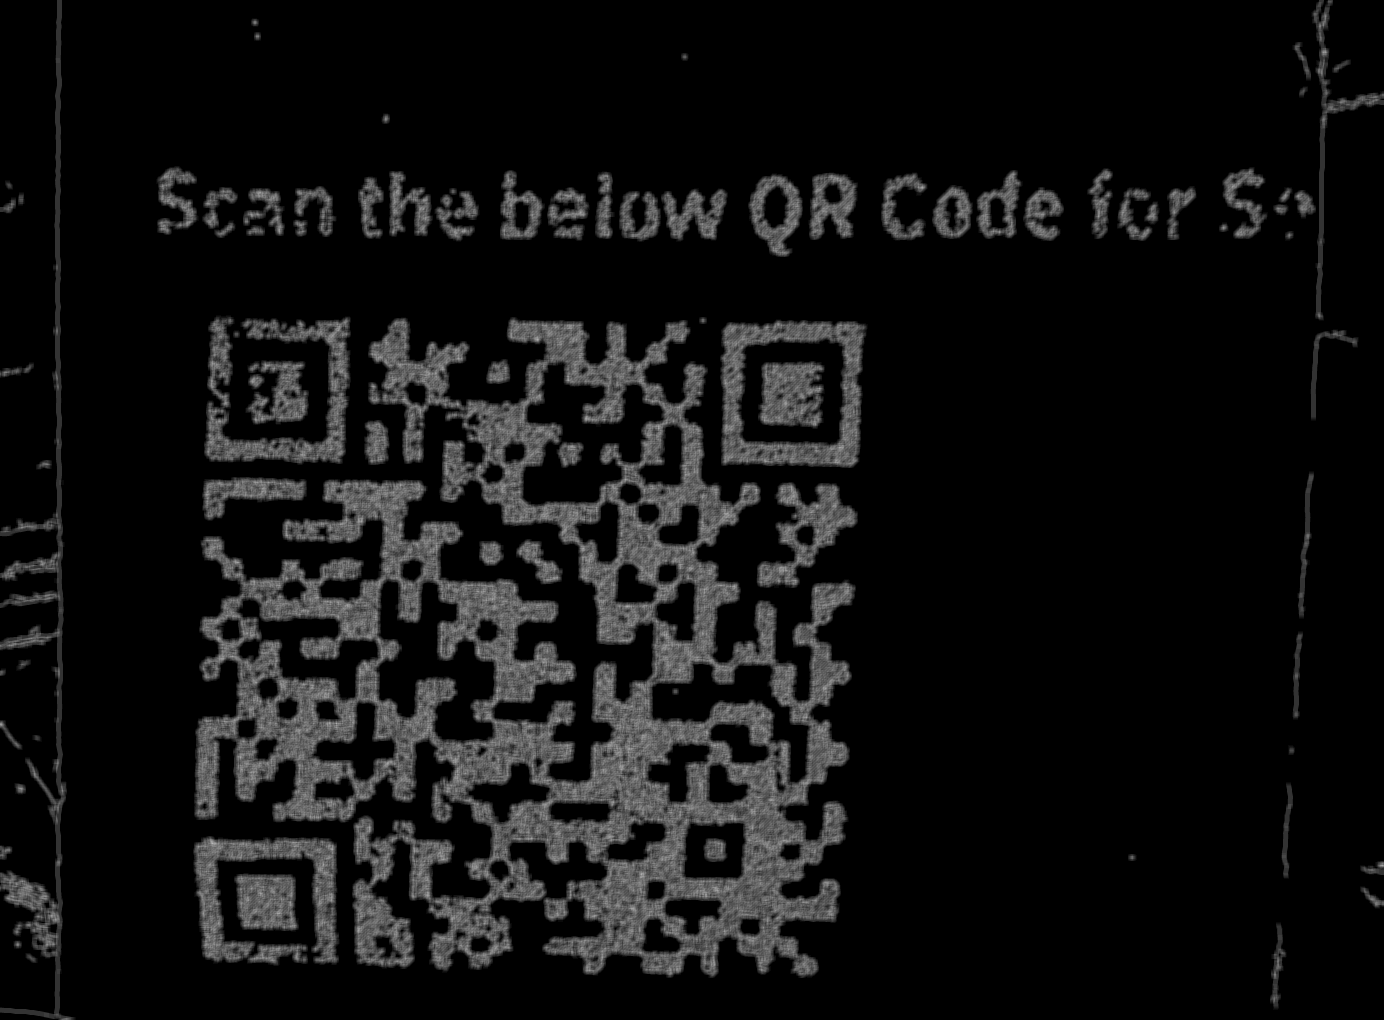
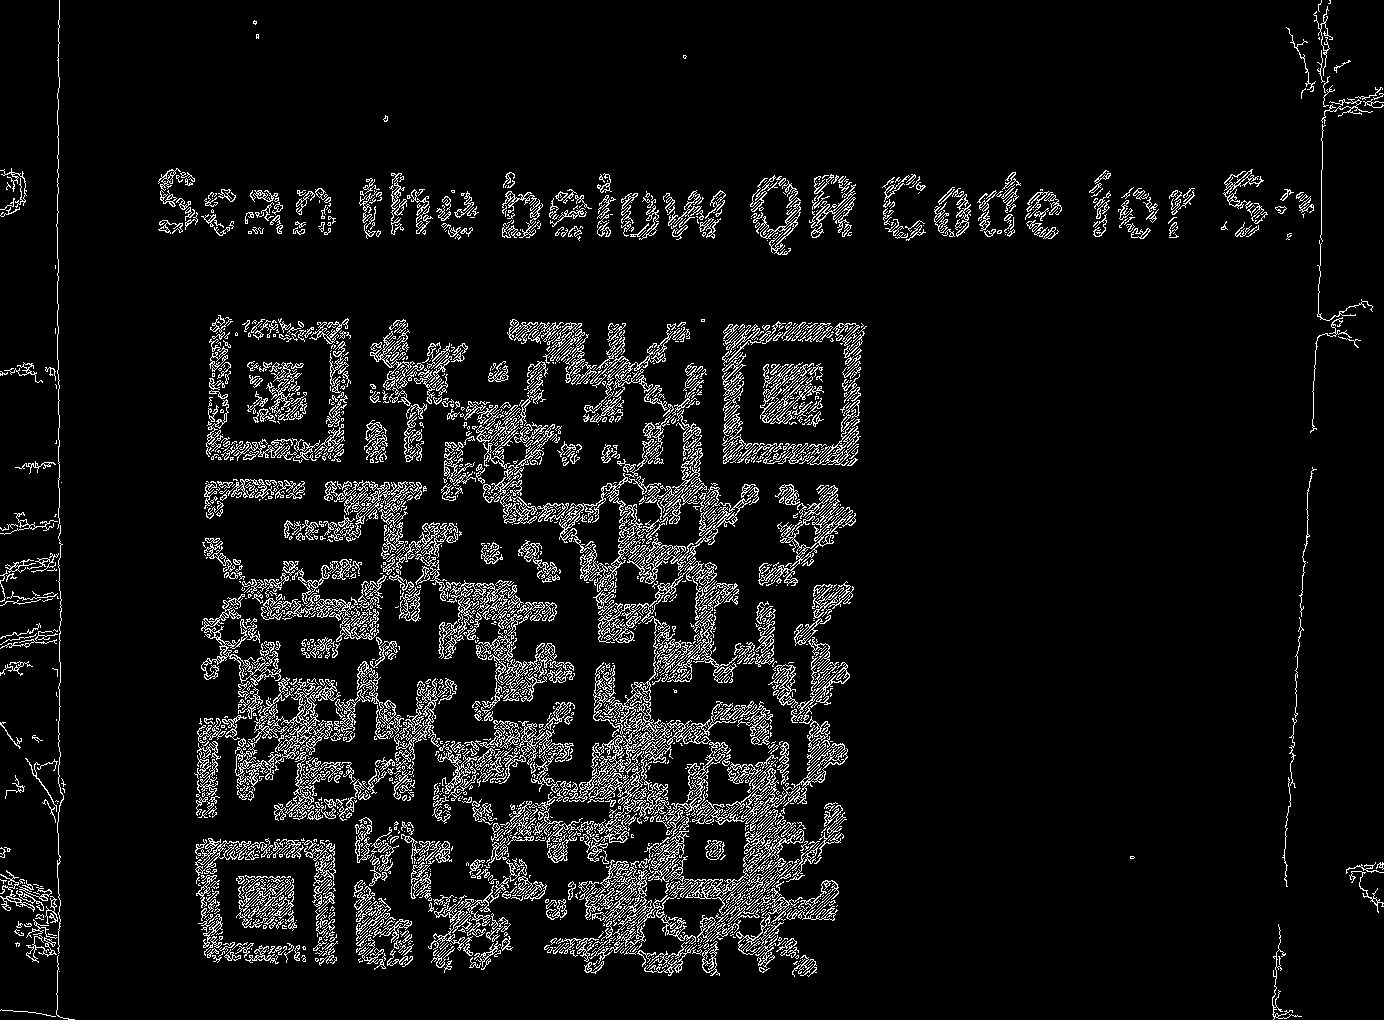
dual exposure?

diff --git a/main.py b/main.py
@@ -1,5 +1,5 @@
 import cv2
-import pygame
+# import pygame
 import sys
 import numpy as np
 image = cv2.imread('qr.png', cv2.IMREAD_GRAYSCALE)
@@ -12,8 +12,8 @@ threshold2 = int(sys.argv[2]) if len(sys.argv) > 2 else 200
 # im_color = cv2.cvtColor(im_th_gray, cv2.COLOR_GRAY2BGR)
 # cv2.drawContours(im_color, contours, -1, (0, 0, 255), 1)
 edges = cv2.Canny(image=image, threshold1=threshold1, threshold2=threshold2)
-blur = cv2.blur(edges,(5,5))
-cv2.imwrite('qr2.png', blur)
+# blur = cv2.blur(edges,(5,5))
+cv2.imwrite('qr2.png', edges)
 # try gaussian blur blurred_img = cv2.GaussianBlur(img, (5,5), 0)
 # bilateral filter is maybe what i exactly want. also read about filling contour gaps
 # otsu bad 170 b/w
